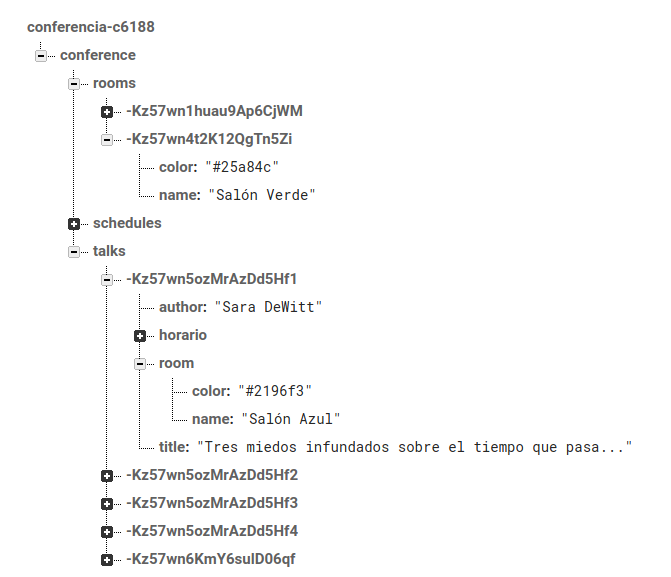
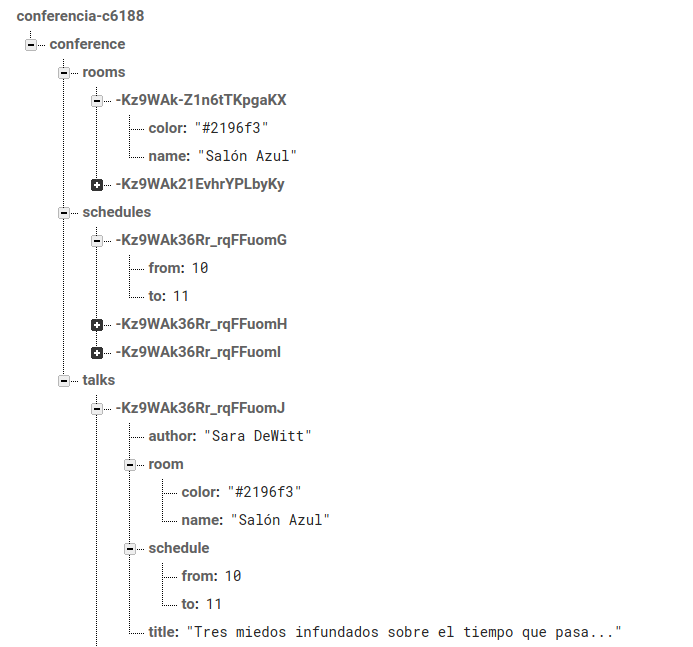
Fixing horario to schedule

Changed region(s): [[0.0298, 0.0, 0.8644, 0.9983], [0.6855, 0.7487, 0.8942, 0.8111]]

diff --git a/server/src/models/talk.js b/server/src/models/talk.js
@@ -1,34 +1,39 @@
 export default class Talk {
-
-    constructor(talkJSON) {
-        this.title = ""
-        this.author = ""
-        this.room = ""
-        this.errors = []
-        if (talkJSON !== undefined) {
-            this.fromJSON(talkJSON)
+    
+        constructor(talkJSON) {
+            this.title = ""
+            this.author = ""
+            this.room = {}
+            this.schedule = {}
+            this.errors = []
+            if (talkJSON !== undefined) {
+                this.fromJSON(talkJSON)
+            }
+        }
+    
+        validate() {
+            if (this.title == "") {
+                this.errors.push("Debe ingresar título")
+            }
+            if (this.author == "") {
+                this.errors.push("Debe ingresar autor")
+            }
+            if (this.room == "") {
+                this.errors.push("Debe ingresar sala")
+            }
+            if (this.schedule == "") {
+                this.errors.push("Debe ingresar horario")
+            }
+        }
+    
+        get ok() {
+            return this.errors.length == 0
+        }
+    
+        fromJSON(talkJSON) {
+            this.author = talkJSON.author
+            this.title = talkJSON.title
+            this.room = talkJSON.room
+            this.schedule = talkJSON.schedule
         }
     }
-
-    validate() {
-        if (this.title == "") {
-            this.errors.push("Debe ingresar título")
-        }
-        if (this.author == "") {
-            this.errors.push("Debe ingresar autor")
-        }
-        if (this.room == "") {
-            this.errors.push("Debe ingresar sala")
-        }
-    }
-
-    get ok() {
-        return this.errors.length == 0
-    }
-
-    fromJSON(talkJSON) {
-        this.author = talkJSON.author
-        this.title = talkJSON.title
-        this.room = talkJSON.room
-    }
-} 

diff --git a/server/src/services/initData.js b/server/src/services/initData.js
@@ -49,13 +49,13 @@ class DataBootstrap {
         this.db.collection("conference/schedules").push(schedule)
     }
 
-    insertTalk(author, title, room, horario) {
+    insertTalk(author, title, room, schedule) {
         console.log("Inserting Talk ", title)
         this.db.collection("conference/talks").push({
             "author": author,
             "title": title,
             "room": room,
-            "horario": horario
+            "schedule": schedule
         })
     }
 
